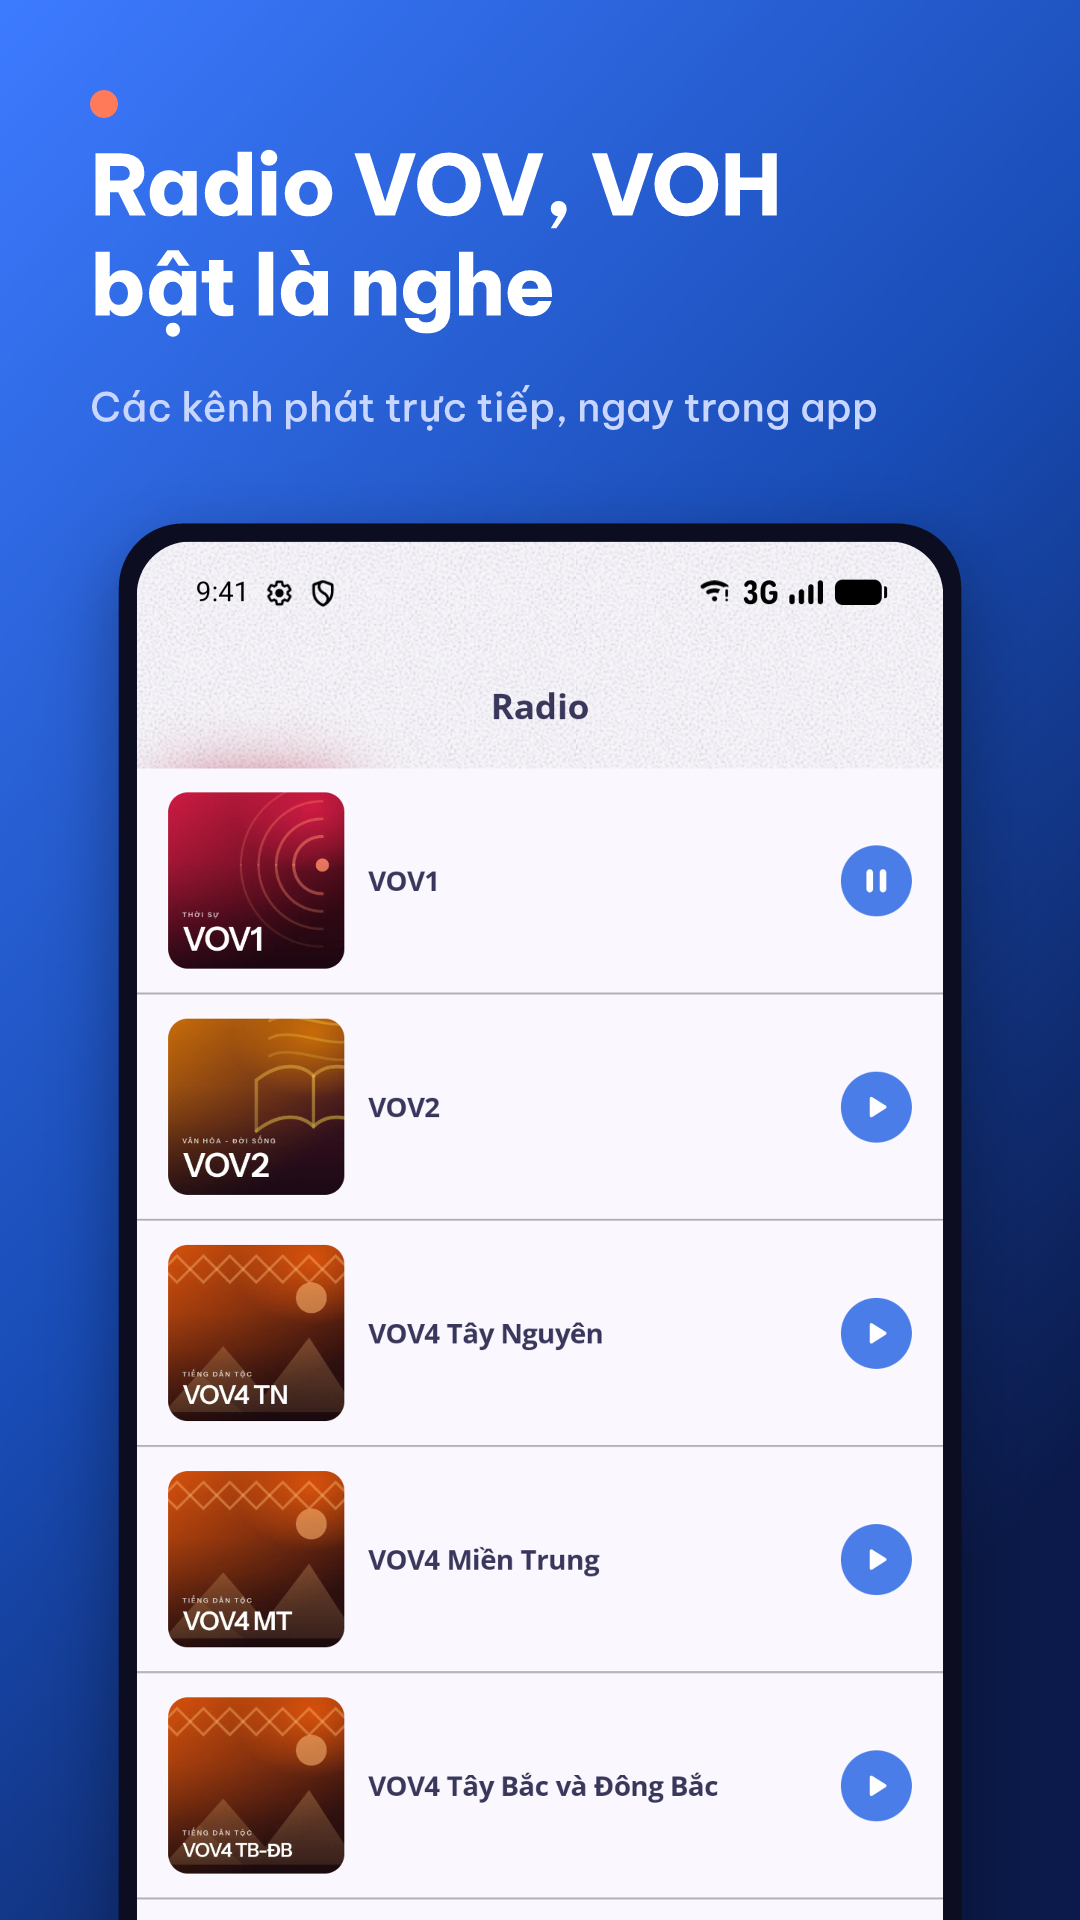
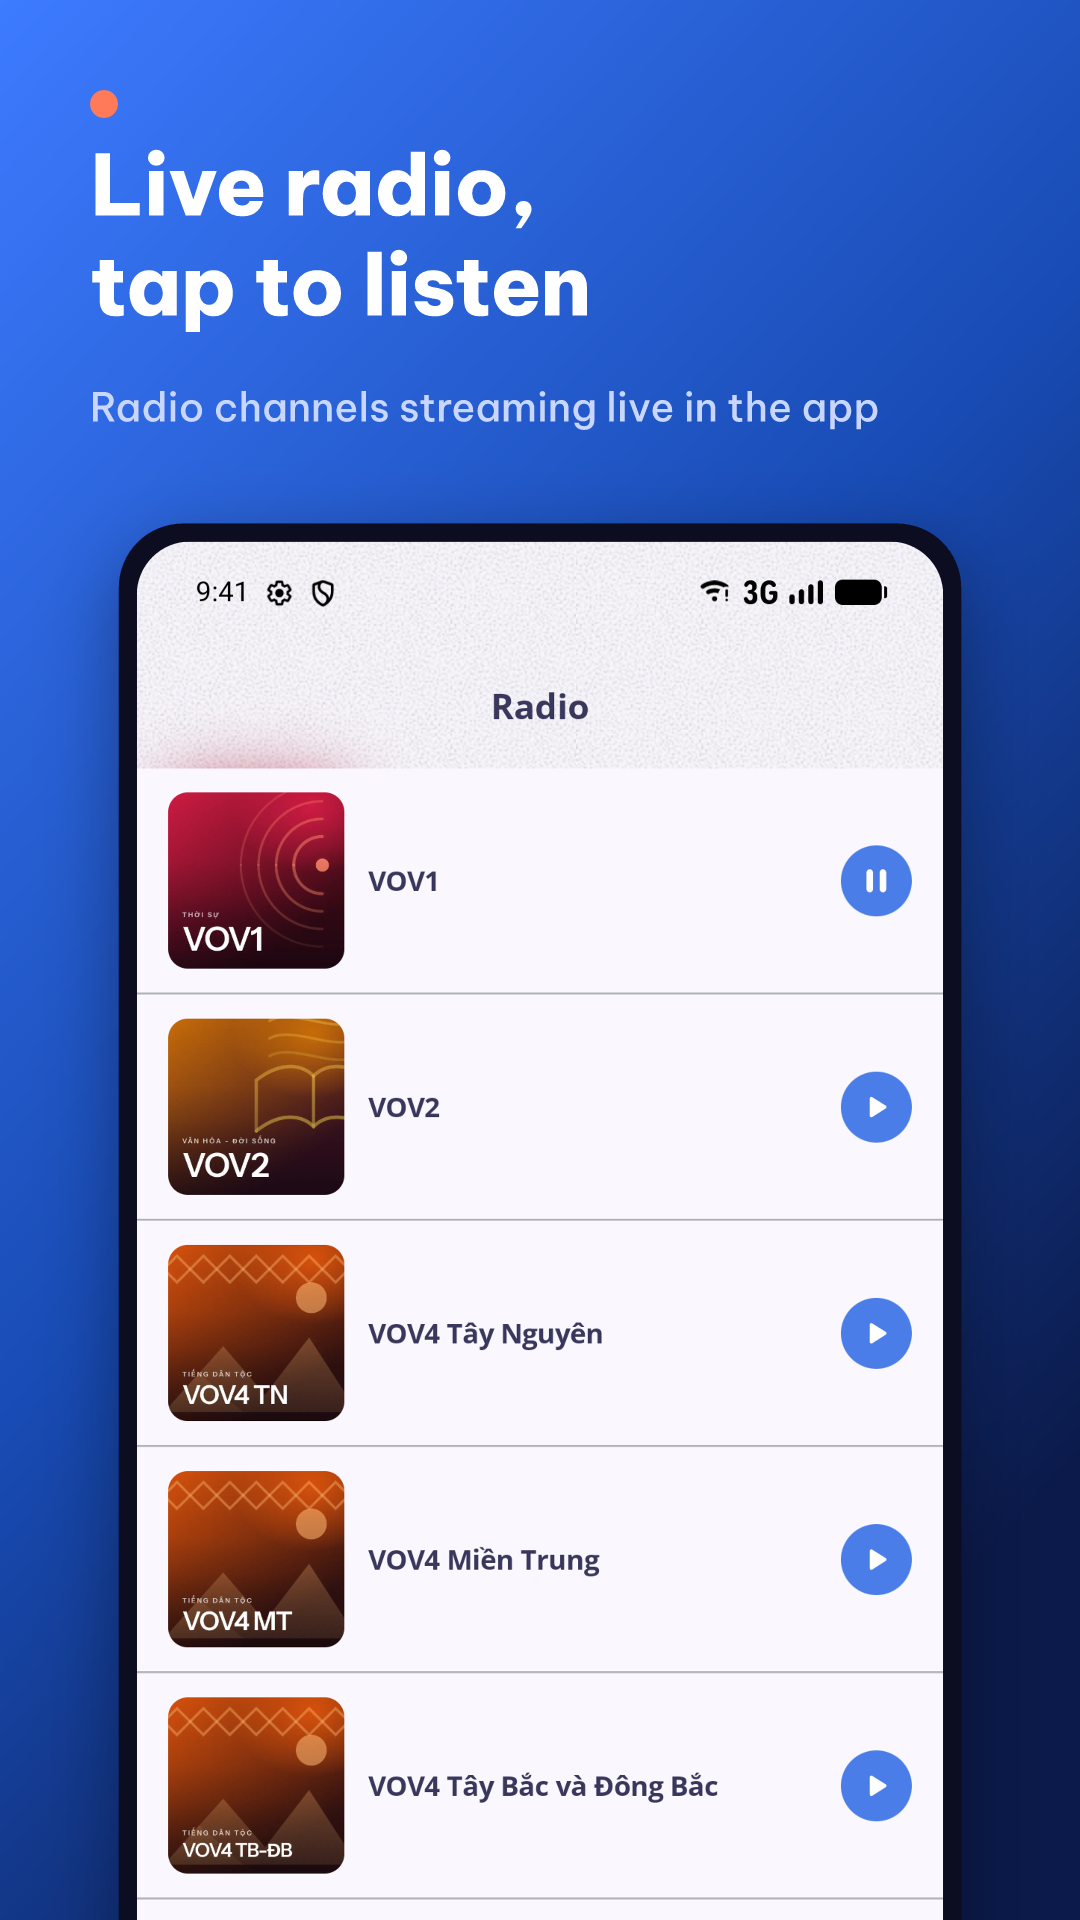
docs(store): ASO-optimised Play listing (vi/en) and English screenshots
- Title vi "TSPodcast: Nghe podcast, radio" (30), short descriptions
  without third-party station names or "miễn phí", full descriptions
  restructured: benefit-first opening, accurate feature list checked
  against main, independence disclaimer for the radio channels.
- Radio screenshot caption no longer names VOV/VOH; en-US gets its own
  six screenshots with English captions (examples-en.json).
- docs/store/play-listing-aso.md: Play Console steps, keyword map,
  policy checklist, text for the next release (player basics),
  store listing experiments and measurement.

Changed region(s): [[0.0917, 0.0625, 0.7333, 0.2188], [0.55, 0.0625, 0.7333, 0.125], [0.7639, 0.1875, 0.7944, 0.2188]]

diff --git a/docs/store/play-listing-aso.md b/docs/store/play-listing-aso.md
@@ -1,0 +1,182 @@
+# Google Play: nội dung store listing chuẩn ASO
+
+Cập nhật 2026-11-01. Bộ nội dung này dùng được ngay cho bản đang có trên Play (v3.4.10017). Mục 6
+là phần thêm vào khi phát hành bản Android có player mới (tốc độ, hẹn giờ tắt, tua ±, nhớ vị trí).
+
+File nguồn nằm trong `fastlane/metadata/android/<vi-VN|en-US>/`. CI **không** tự đẩy listing
+(workflow chỉ đẩy "What's new"), nên phải dán tay vào Play Console theo mục 1.
+
+## 1. Việc cần làm trong Play Console
+
+Play Console → **Tăng trưởng → Trang thông tin trên Cửa hàng → Trang thông tin chính**:
+
+1. Tiếng Việt (vi-VN, ngôn ngữ mặc định): dán `title.txt`, `short_description.txt`, `full_description.txt`.
+2. Thay ảnh điện thoại số 2 bằng `vi-VN/images/phoneScreenshots/02.png` (đổi chú thích "Radio VOV, VOH" thành "Radio online").
+3. Bản dịch English (en-US): dán 3 file chữ của `en-US`, thay **cả 6** ảnh bằng `en-US/images/phoneScreenshots/01–06.png` (chú thích tiếng Anh, trước đây dùng ảnh tiếng Việt).
+4. Lưu, gửi duyệt cùng hoặc tách khỏi bản app (thay đổi listing được duyệt riêng).
+5. Ghi ngày đổi vào mục 8 để so số liệu trước/sau.
+
+## 2. Nội dung mới
+
+| Trường | Giới hạn | vi-VN | en-US |
+|---|---|---|---|
+| Tên ứng dụng | 30 | `TSPodcast: Nghe podcast, radio` (30) | `TSPodcast: Podcasts & Radio` (27) |
+| Mô tả ngắn | 80 | `Nghe podcast tiếng Việt và quốc tế, radio online, kho nhạc mở trong một app.` (76) | `Vietnamese and world podcasts, live radio and open music, all in one app.` (73) |
+| Mô tả đầy đủ | 4.000 | 1.692 ký tự | 1.675 ký tự |
+
+Thay đổi so với listing cũ và lý do:
+
+| Trước | Sau | Lý do |
+|---|---|---|
+| Tên vi: `TSPodcast: Podcast & Radio` | `TSPodcast: Nghe podcast, radio` | Tên là trường có trọng số tìm kiếm cao nhất. "nghe podcast" là cách người Việt gõ khi tìm app; dùng đủ 30 ký tự. |
+| Mô tả ngắn nhắc "VOV, VOH" và "miễn phí" | Bỏ tên đài và "miễn phí" | Tên đài là thương hiệu của bên khác, chưa có văn bản cho phép (blocker B4); đặt ở mô tả ngắn dễ bị hiểu là app chính thức. "miễn phí" là từ khuyến mại, Google khuyên không dùng ở tên và các trường nổi bật. |
+| Mô tả đầy đủ mở đầu bằng 1 câu | 2 câu đầu nói rõ app làm gì, cho ai, "không cần tài khoản" | Người dùng thường chỉ đọc vài câu đầu trước khi bấm "Xem thêm". |
+| Tiêu đề mục viết HOA | `<b>Tiêu đề</b>` | Play hiển thị chữ đậm; tránh viết hoa toàn bộ (chính sách Metadata). |
+| Thiếu một số tính năng đã có | Thêm Podcast live, "Có thể bạn yêu thích", điều khiển tai nghe Bluetooth, lọc chương trình rác/cờ bạc, không quảng cáo toàn màn hình khi đang nghe | Mô tả đúng và đủ chức năng là yêu cầu của chính sách, đồng thời thêm từ khoá tự nhiên. |
+| Không ghi tính độc lập | "TSPodcast là ứng dụng độc lập, không liên kết với các đài phát thanh hay nhà sản xuất podcast." | Giảm rủi ro mạo danh/thương hiệu khi nhắc VOV, VOH trong mô tả. |
+
+Mọi dòng trong mô tả đã đối chiếu với code Android trên `main` ngày 2026-11-01. Không ghi tính
+năng chưa có trên Android: duyệt theo chủ đề, tìm kiếm không dấu, tải offline, tốc độ phát (chờ
+bản ở mục 6).
+
+## 3. Từ khoá và vị trí đặt
+
+Chưa có số liệu lượt tìm thật. Danh sách dưới đây lấy theo cách người dùng mô tả nhu cầu và theo
+tính năng của app; sau 2–4 tuần cần đối chiếu với báo cáo từ khoá ở mục 8.
+
+| Nhóm | Từ khoá (vi) | Nằm ở | Từ khoá (en) |
+|---|---|---|---|
+| Lõi | nghe podcast, podcast tiếng Việt | Tên, mô tả ngắn, câu đầu | podcasts, Vietnamese podcasts |
+| Radio | radio online, nghe radio, kênh phát thanh, nghe đài | Tên ("radio"), mô tả ngắn, mục Radio | live radio, radio channels |
+| Nhạc | kho nhạc, nhạc | Mô tả ngắn, mục Kho nhạc | open music, music feeds |
+| Thói quen nghe | phát nền, tắt màn hình vẫn nghe, màn hình khoá, tai nghe Bluetooth | Mục "Nghe thoải mái" | background playback, lock screen |
+| Chủ đề | tin tức, kinh doanh, công nghệ, giáo dục, lịch sử, sức khoẻ, hài, thể thao, truyện | Mục "Khám phá" | news, business, technology… |
+| Sắp có (mục 6) | hẹn giờ tắt, tốc độ phát, nghe tiếp | Khi phát hành player mới | sleep timer, playback speed |
+
+Quy tắc khi sửa: mỗi từ khoá xuất hiện trong câu có nghĩa, không liệt kê từ khoá thành dãy,
+không lặp một cụm quá 3–4 lần. "podcast" hiện xuất hiện khoảng 16 lần trong ~280 từ (tính cả tên
+app và "Podcast Index"), mức tự nhiên.
+
+## 4. Chính sách áp dụng
+
+Theo [chính sách Metadata của Google Play](https://support.google.com/googleplay/android-developer/answer/9898842)
+và [hướng dẫn store listing](https://support.google.com/googleplay/android-developer/answer/13393723):
+
+- [x] Tên ≤ 30 ký tự, không emoji, không viết HOA toàn bộ, không "miễn phí"/"free", không xếp hạng hay khuyến mại.
+- [x] Không từ so sánh tuyệt đối ("nhất", "số 1", "hàng đầu"), cũng theo Luật Quảng cáo VN (đã áp ở #28).
+- [x] Không lời chứng thực ẩn danh, không so sánh với app khác, không nhắc tên app khác.
+- [x] Mô tả đúng chức năng hiện có; không lặp từ khoá vô nghĩa.
+- [x] Ảnh chụp phản ánh đúng trải nghiệm trong app; không "#1", "Popular", giảm giá.
+- [x] Mỗi ngôn ngữ có ảnh với chữ của ngôn ngữ đó (vi và en đã tách).
+- [ ] Tên và logo của bên khác: ảnh số 1 đang có bìa podcast của bên thứ ba (ví dụ logo SBS). Nên chụp lại màn Khám phá khi hàng đầu là các chương trình tiếng Việt, bìa không mang logo tổ chức lớn.
+- [ ] Radio VOV/VOH: chỉ nhắc tên trong mô tả đầy đủ, đúng sự thật, kèm câu "ứng dụng độc lập". Khi có văn bản cho phép (B4) có thể đưa lại vào mô tả ngắn và ảnh.
+
+## 5. Ảnh, feature graphic, video
+
+| # | Màn | Chú thích vi | Chú thích en |
+|---|---|---|---|
+| 1 | Khám phá | Podcast Việt và thế giới mỗi ngày | Podcasts from Vietnam and the world |
+| 2 | Radio | Radio online, chạm là nghe | Live radio, tap to listen |
+| 3 | Đang phát | Tắt màn hình vẫn nghe tiếp | Keep listening with the screen off |
+| 4 | Tìm kiếm | Tìm đúng chủ đề bạn quan tâm | Find the topics you care about |
+| 5 | Kho nhạc | Kho nhạc mở, nghe thả ga | Open music, straight from artists |
+| 6 | Yêu thích | Gom tập yêu thích về một chỗ | Your favourite episodes in one place |
+
+Sinh lại: `cd brand/scripts && node frame.js --batch ../store/screenshots/examples.json` (vi, cả Play
+và App Store) và `--batch ../store/screenshots/examples-en.json` (en, Play). Chép
+`out*/NN-*-play.png` vào `fastlane/.../phoneScreenshots/NN.png`.
+
+Thứ tự giữ nguyên: 3 ảnh đầu hiện ngay trên trang kết quả nên dành cho 3 lý do chính để cài
+(podcast, radio, nghe nền). Khi phát hành player mới, thay ảnh 3 bằng màn Player có chip tốc độ
+và nút hẹn giờ (chú thích gợi ý ở mục 6).
+
+Video: Play chỉ nhận link YouTube. Tải `brand/video/out/tspodcast-demo-1080x1920.mp4` lên
+YouTube (Unlisted, tắt quảng cáo) rồi dán link. Video tăng tỉ lệ chuyển đổi khi người dùng xem
+ảnh đầu tiên; nếu không có video, ảnh 1 là thứ người dùng thấy đầu tiên.
+
+## 6. Chuẩn bị cho bản Android có player mới
+
+Chỉ dùng **sau khi** bản có tốc độ phát, hẹn giờ tắt, tua −15/+30 và nhớ vị trí nghe đã lên
+production. Nếu bản đó thiếu tính năng nào thì bỏ dòng tương ứng.
+
+**Mô tả đầy đủ, vi: thêm vào đầu mục "Nghe thoải mái, không gián đoạn"**
+
+```
+• Chỉnh tốc độ phát từ 0.5× đến 3.0×, nhớ riêng cho từng chương trình
+• Hẹn giờ tắt: 5 đến 60 phút hoặc khi hết tập, nhỏ dần âm lượng trước khi dừng
+• Tua lùi 15 giây, tua tới 30 giây, ngay cả trên màn hình khoá
+• Nhớ vị trí đang nghe, mở lại là nghe tiếp
+```
+
+**en: thêm vào đầu "Listen your way"**
+
+```
+• Playback speed from 0.5× to 3.0×, remembered for each show
+• Sleep timer: 5 to 60 minutes or at the end of the episode, with a gentle fade-out
+• Skip back 15 seconds and forward 30 seconds, also on the lock screen
+• Picks up where you left off
+```
+
+**Mô tả ngắn, phương án B để thử nghiệm (mục 7)**
+
+- vi: `Nghe podcast tiếng Việt, radio online. Hẹn giờ tắt, chỉnh tốc độ, nghe tiếp.` (76)
+- en: `Vietnamese podcasts and live radio, with sleep timer and speed control.` (71)
+
+**What's new (≤ 500 ký tự)**, đặt vào `distribution/whatsnew/` và `changelogs/<versionCode>.txt`:
+
+```
+• Chỉnh tốc độ phát 0.5×–3.0×, nhớ riêng từng chương trình
+• Hẹn giờ tắt: theo phút hoặc khi hết tập
+• Nút tua lùi 15 giây, tua tới 30 giây trên trình phát và màn hình khoá
+• Mở lại tập đang nghe dở là nghe tiếp từ chỗ cũ
+• Báo lỗi rõ hơn khi không phát được, có nút Thử lại
+```
+
+```
+• Playback speed 0.5×–3.0×, remembered per show
+• Sleep timer by minutes or at the end of the episode
+• Skip back 15 s and forward 30 s in the player and on the lock screen
+• Resume an episode where you left off
+• Clearer message with a Retry button when playback fails
+```
+
+**Ảnh 3 (Đang phát)**: "Nghe nhanh, nghe chậm,\nhẹn giờ tắt" / "Tốc độ 0.5×–3.0×, tự tắt khi bạn ngủ";
+en "Your speed,\nyour sleep timer" / "0.5×–3.0×, stops when you fall asleep".
+
+## 7. Thử nghiệm store listing (A/B)
+
+Play Console → Tăng trưởng → **Thử nghiệm trang thông tin trên Cửa hàng**. Mỗi lần một thử
+nghiệm, chỉ cho vi-VN, chia 50/50, chạy tối thiểu 7 ngày và tới khi Play báo đủ độ tin cậy.
+Chỉ số chính: **người cài đặt giữ lại sau 1 ngày** (retained first-time installers).
+
+| # | Giả thuyết | Biến thể | Khi nào |
+|---|---|---|---|
+| 1 | Ảnh đầu nói về radio thu hút hơn podcast (người tìm "nghe đài" nhiều) | Ảnh 1 = Radio, ảnh 2 = Khám phá | Ngay sau khi listing mới chạy ổn 2 tuần |
+| 2 | Nêu tính năng nghe tiện (hẹn giờ, tốc độ) tăng chuyển đổi | Mô tả ngắn phương án B (mục 6) | Sau khi phát hành player mới |
+| 3 | Ảnh nền sáng nổi bật hơn giữa các app nền tối | Ảnh 1–3 theme `light` | Sau #2 |
+
+Không chạy thử nghiệm cùng lúc với chiến dịch quảng cáo trả phí mới hoặc thay đổi lớn về quảng
+cáo trong app (`docs/plans/seo-web-dashboard.md` §C.4).
+
+## 8. Đo lường
+
+- Play Console → **Thống kê → Thu nạp người dùng → Báo cáo**: lượt truy cập trang, tỉ lệ chuyển
+  đổi theo nguồn (Tìm kiếm trên Google Play, Khám phá), và **cụm từ tìm kiếm** đưa người dùng tới
+  trang. Đây là nguồn chính để sửa bảng từ khoá ở mục 3.
+- Ghi mốc so sánh: tỉ lệ chuyển đổi 28 ngày trước khi đổi listing, và 28 ngày sau.
+- Trả lời đánh giá trong 48 giờ (mẫu bên dưới); điểm đánh giá và tỉ lệ ANR/crash ảnh hưởng tới
+  thứ hạng.
+
+| Ngày | Thay đổi | Tỉ lệ chuyển đổi 28 ngày trước | 28 ngày sau |
+|---|---|---|---|
+| | Listing ASO (tài liệu này) | | |
+
+**Mẫu trả lời đánh giá**
+
+- Lỗi phát: "Cảm ơn bạn đã báo. Bạn cho mình xin tên chương trình/tập bị lỗi qua email hỗ trợ
+  trên trang này nhé, mình sẽ kiểm tra và sửa trong bản tới."
+- Muốn thêm tính năng: "Cảm ơn góp ý của bạn! Mình đã ghi lại [tính năng] vào danh sách cần làm."
+- Nội dung không phù hợp: "Cảm ơn bạn. Mình đã chuyển chương trình này vào danh sách kiểm tra
+  và sẽ chặn nếu vi phạm."
+- Đánh giá tốt: "Cảm ơn bạn đã nghe TSPodcast! Nếu có chương trình hay, bạn chia sẻ cho bạn bè
+  cùng nghe nhé."
